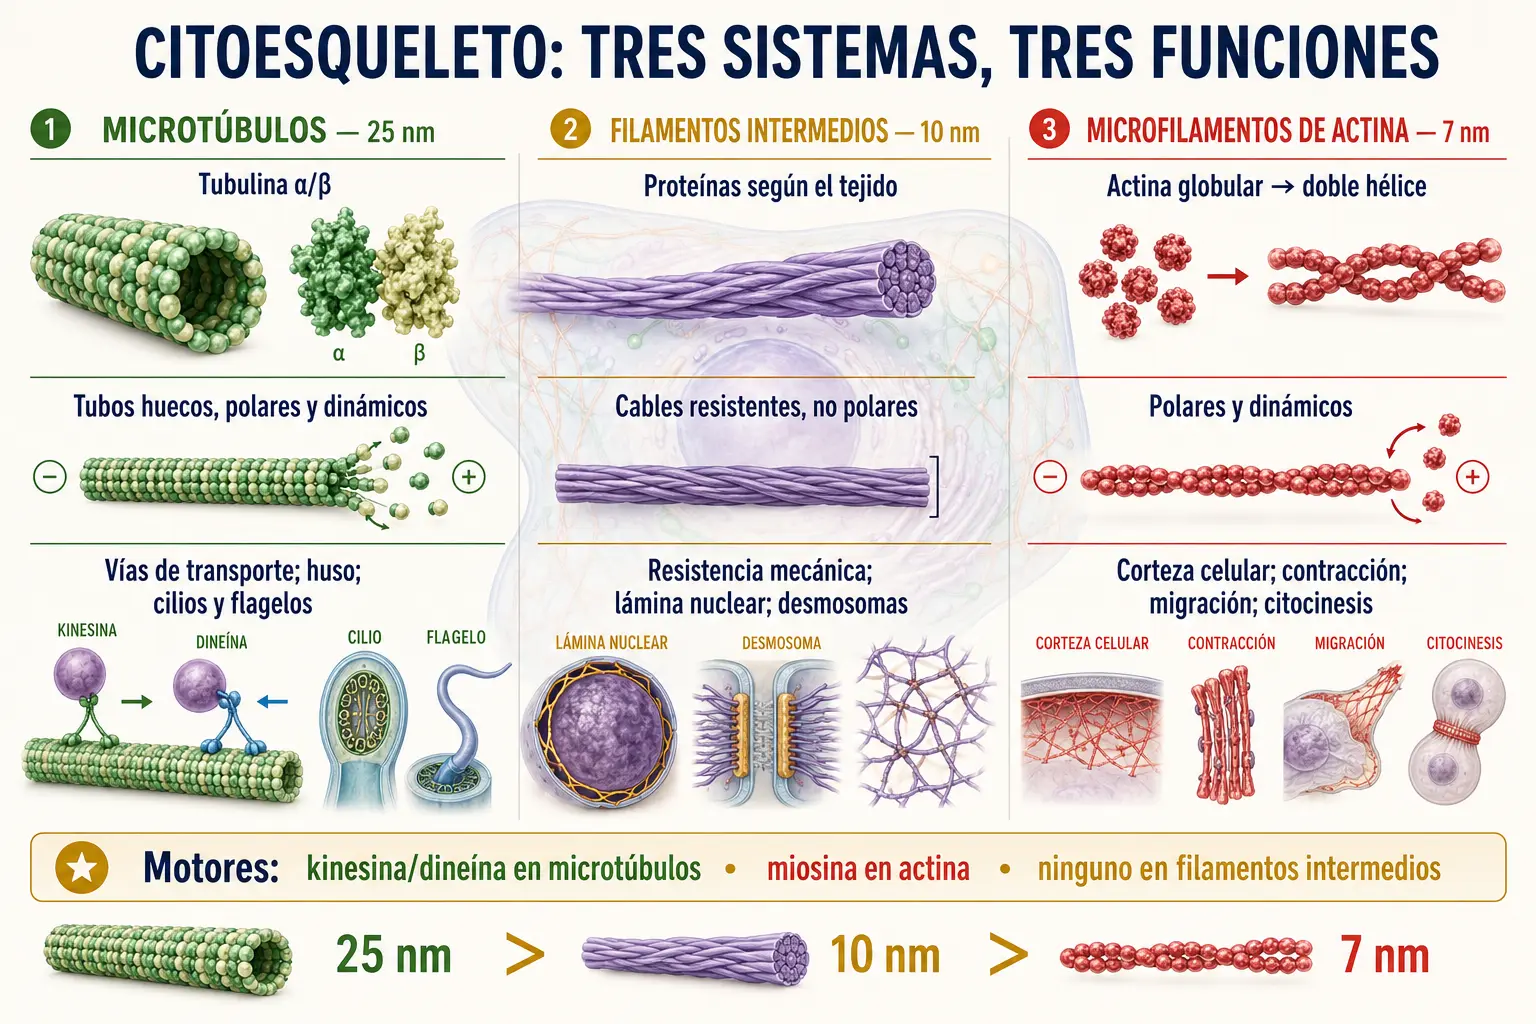
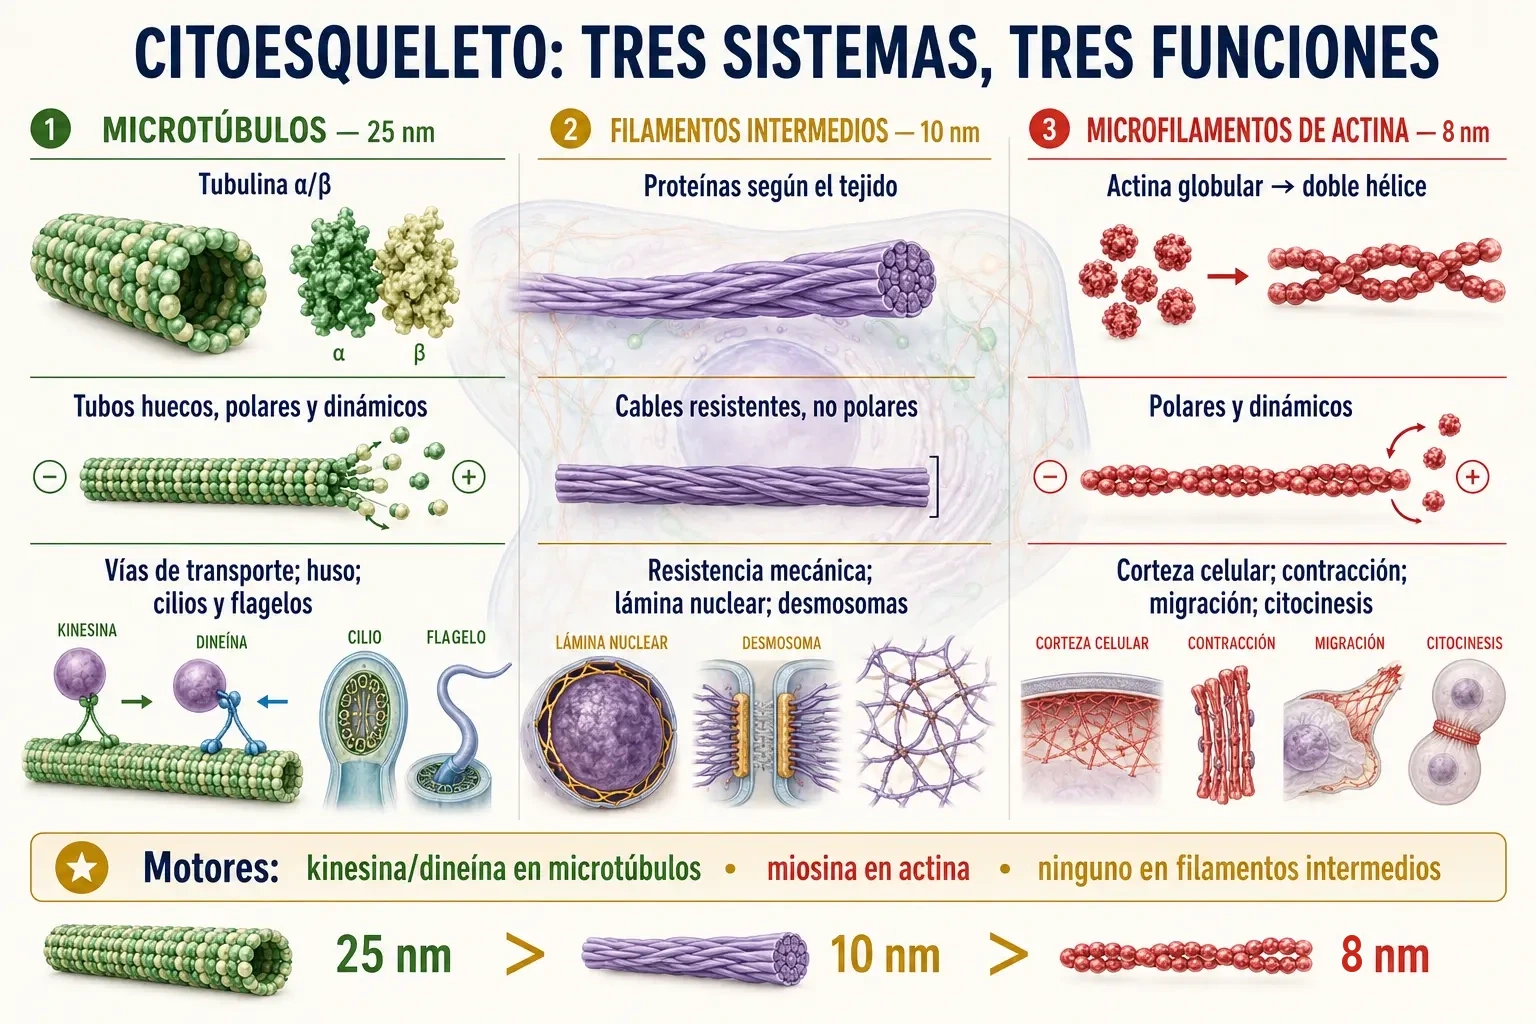
Biología: figura do citoesqueleto (8 nm, conforme slide da Unidad V), alt coerente e registro corrigido (20 aminoácidos × 9 essenciais)
Claude-Session: https://claude.ai/code/session_01RqPJR6WPBhuhwUpV78sACw

diff --git a/Repasso-Med-Site--main/Atual - Copia/netlify/functions/materias-privadas/biologia.html b/Repasso-Med-Site--main/Atual - Copia/netlify/functions/materias-privadas/biologia.html
@@ -1580,7 +1580,7 @@
   </div><figure class="rmc-fig bio-fig"><div class="rmc-zoom"><img class="rmc-photo" src="/assets/img/bio/bio_b09_01_citosol_inclusiones.webp" alt="Funciones del citosol —metabolismo con glucólisis y síntesis, transporte de metabolitos y señales, reserva de iones y pequeñas moléculas y soporte del citoesqueleto y los ribosomas libres— y los tipos de inclusiones: glucógeno, gotas lipídicas, pigmentos como melanina, lipofuscina y hemosiderina, y cristales." loading="lazy" decoding="async" width="1536" height="1024"></div><p class="rmc-hint">🔍 tocá la figura y ampliá con dos dedos para leer los rótulos</p><figcaption><b>Citosol y citoplasma no son sinónimos.</b> El recuadro del centro es la definición clave: <b>citoplasma = citosol + orgánulos + inclusiones</b>. El <b>citosol</b> es sólo el líquido, la fase acuosa donde ocurre la glucólisis y flotan los ribosomas libres.</figcaption></figure><div class="rmc-note"><p>Y la banda del pie marca la otra distinción: las <b>inclusiones no son orgánulos</b> — no tienen membrana propia (el glucógeno), o sólo una <b>monocapa</b> (las gotas lipídicas), no cumplen una función metabólica delimitada y son <b>transitorias</b>: aparecen y desaparecen según el estado de la célula.</p>
     <p>Un orgánulo es permanente; una inclusión es un depósito.</p></div>
 
-  <figure class="rmc-fig bio-fig"><div class="rmc-zoom"><img class="rmc-photo" src="/assets/img/bio/bio_b09_02_citoesqueleto_comparativo.webp" alt="Los tres componentes del citoesqueleto comparados: microtúbulos de tubulina de unos 25 nanómetros, filamentos intermedios de queratina y otras proteínas de unos 10 nanómetros, y microfilamentos de actina de unos 7 a 8 nanómetros, con su composición, estructura y funciones." loading="lazy" decoding="async" width="1536" height="1024"></div><p class="rmc-hint">🔍 tocá la figura y ampliá con dos dedos para leer los rótulos</p><figcaption><b>Se ordenan por grosor, y el grosor predice la función.</b> Aprendelos en la escalera que muestra la figura: <b>microtúbulos ~25 nm</b> (los más gruesos), <b>filamentos intermedios ~10 nm</b>, <b>microfilamentos ~8 nm</b> (los más finos).</figcaption></figure><div class="rmc-note"><p>Y asociá cada uno a su trabajo, que se deduce del calibre. Los <b>microtúbulos</b>, gruesos y polares, son los <b>rieles</b>: transporte de vesículas, huso mitótico, cilios y flagelos.</p>
+  <figure class="rmc-fig bio-fig"><div class="rmc-zoom"><img class="rmc-photo" src="/assets/img/bio/bio_b09_02_citoesqueleto_comparativo.webp" alt="Los tres componentes del citoesqueleto comparados: microtúbulos de tubulina de unos 25 nanómetros, filamentos intermedios de queratina y otras proteínas de unos 10 nanómetros, y microfilamentos de actina de unos 8 nanómetros, con su composición, estructura y funciones." loading="lazy" decoding="async" width="1536" height="1024"></div><p class="rmc-hint">🔍 tocá la figura y ampliá con dos dedos para leer los rótulos</p><figcaption><b>Se ordenan por grosor, y el grosor predice la función.</b> Aprendelos en la escalera que muestra la figura: <b>microtúbulos ~25 nm</b> (los más gruesos), <b>filamentos intermedios ~10 nm</b>, <b>microfilamentos ~8 nm</b> (los más finos).</figcaption></figure><div class="rmc-note"><p>Y asociá cada uno a su trabajo, que se deduce del calibre. Los <b>microtúbulos</b>, gruesos y polares, son los <b>rieles</b>: transporte de vesículas, huso mitótico, cilios y flagelos.</p>
     <p>Los <b>filamentos intermedios</b> son los <b>cables de acero</b>: pura resistencia mecánica, sin polaridad y sin motores — son los únicos que no transportan nada.</p>
     <p>Los <b>microfilamentos</b> de actina hacen todo lo que implica <b>cambiar de forma</b>: contracción, migración, microvellosidades y el anillo de la citocinesis.</p></div><figure class="rmc-fig bio-fig"><div class="rmc-zoom"><img class="rmc-photo" src="/assets/img/bio/bio_b09_03_microtubulos_actina_motores.webp" alt="La polaridad del microtúbulo con extremo menos cerca del centrosoma y extremo más hacia la periferia, la kinesina que transporta hacia el extremo más y la dineína hacia el extremo menos, la estructura del cilio con axonema 9+2 y cuerpo basal de 9 tripletes, y las funciones de la actina en contracción, protrusión y citocinesis." loading="lazy" decoding="async" width="1536" height="1024"></div><p class="rmc-hint">🔍 tocá la figura y ampliá con dos dedos para leer los rótulos</p><figcaption><b>La polaridad decide para dónde va cada motor.</b> El panel A tiene el dato central: el microtúbulo <b>no es simétrico</b>. Su <b>extremo −</b> queda anclado en el centrosoma y el <b>+</b> apunta a la periferia.</figcaption></figure><div class="rmc-note"><p>Sobre ese riel corren dos motores en sentidos opuestos: la <b>kinesina hacia el +</b> (del centro hacia afuera) y la <b>dineína hacia el −</b> (de vuelta al centro).</p>
     <p>Si te acordás de la dirección, te acordás del nombre. El panel B trae los dos números que se confunden: el <b>axonema</b> del cilio es <b>9+2</b> (nueve dobletes más un par central).</p>

diff --git a/coordination/source-packs/biologia-figuras-05-09-v1.md b/coordination/source-packs/biologia-figuras-05-09-v1.md
@@ -1,17 +1,19 @@
 # Biología — correção das duas figuras registradas na #550 (2026-10-23)
 
-**Nível:** correção das duas figuras e das duas notas de texto que as apontavam. Nenhuma imagem apagada; mesmos caminhos de arquivo; `alt`, ids, perguntas, gabaritos e cartões intactos.
+**Nível:** correção das três figuras e das duas notas de texto que as apontavam. Nenhuma imagem apagada; mesmos caminhos de arquivo; `alt`, ids, perguntas, gabaritos e cartões intactos.
 
 ## Fonte → achado → decisão → destino
 | Fonte | Achado | Decisão | Destino |
 |---|---|---|---|
 | De Robertis, *Biología Celular y Molecular* 16.ª ed. (Drive, cap. 2): «o grupamento NH₂ de um aminoácido se combina com o COOH do seguinte, com perda de água»; a molécula tem NH₂ numa extremidade (aminoterminal) e COOH na outra (carboxilaterminal); pentapeptídeo desenhado «da extremidade aminoterminal à carboxilaterminal» | Na figura, o dipeptídeo tinha o N aberto na ponta esquerda (N-terminal) com a ordem N–C(=O) lida da esquerda para a direita: contradizia a seta N→C e o rótulo «—CO—NH—» | Painel do dipeptídeo **redesenhado**: H₂N–Cα(R₁)–**CO–NH**–Cα(R₂)–COOH, caixa destacando o enlace, setas N-terminal (esquerda) e C-terminal (direita). Painéis do aminoácidos esenciales e da condensação ficam como estavam | `assets/img/bio/bio_b05_03_esenciales_enlace_peptidico.webp`; nota do bloco 05 reescrita |
-| Unidad II 2022 (cátedra): «cuando dos aminoácidos se unen lo hacen por medio del ENLACE PEPTÍDICO»; 20 aminoácidos essenciais fornecidos pela dieta | Coerente com a figura corrigida; a cátedra não detalha a orientação N→C, que vem do livro | Nada mais a alterar | — |
+| Unidad II 2022 (cátedra): «cuando dos aminoácidos se unen lo hacen por medio del ENLACE PEPTÍDICO»; as proteínas se formam pela combinação de **20 aminoácidos**, dos quais os **essenciais** (são **9**, os listados na figura) são os que as células humanas não produzem e vêm da dieta | Coerente com a figura. Atenção à distinção: **20 = aminoácidos proteicos; 9 = essenciais**. A figura só lista os 9 essenciais (histidina, isoleucina, leucina, lisina, metionina, fenilalanina, treonina, triptófano, valina) e não afirma que sejam os 20. A orientação N→C vem do livro, não da cátedra | Nada mais a alterar | — |
 | Léxico (ortografia) | O rodapé da figura de citosol/inclusões dizia «TRANSTORIAS» | Retocado só o texto do rodapé para «TRANSITORIAS» (fundo dourado reconstruído, mesma posição); restante da imagem intocado | `assets/img/bio/bio_b09_01_citosol_inclusiones.webp`; nota do bloco 09 removida |
 | Unidad IV (cátedra) e livro | Conteúdo da figura (funções do citosol, inclusões, citosol ≠ citoplasma) confere | Sem outra alteração | — |
+| Unidad V (slides 2024, Drive): «MICROFILAMENTOS O FILAMENTOS DE ACTINA. **8 nm de diámetro**»; microtúbulos 25 nm; filamentos intermedios 10 nm (UNIDAD V.pdf confere em 25 e 10 nm) | A figura do citoesqueleto escrevia «7 nm» no cabeçalho dos microfilamentos e na comparação de calibres; o `alt` dizia «7 a 8 nanómetros» | Retocados só os dois dígitos «7» → «8» (mesma cor e posição); `alt` → «unos 8 nanómetros»; imagem preservada | `assets/img/bio/bio_b09_02_citoesqueleto_comparativo.webp`; `alt` em `biologia.html` |
 
 ## Contagens
 Perguntas, cartões, imagens (39), ids e gabaritos iguais. Grifos: consulta somente leitura — nenhum em `biologia` nos trechos alterados.
 
-## Pendência encontrada (não alterada aqui)
-`bio_b09_02_citoesqueleto_comparativo.webp` e o seu `alt` ainda dizem «7 a 8 nm» para o microfilamento; o slide da Unidad V diz 8 nm (a legenda no texto já foi corrigida na #550). Requer nova correção da própria imagem.
+
+## Conferência visual das três figuras
+`bio_b05_03` (dipeptídeo): N-terminal à esquerda, H₂N–Cα(R₁)–CO–NH–Cα(R₂)–COOH, setas e rótulos legíveis. `bio_b09_01` (citosol/inclusões): rodapé «TRANSITORIAS», sem sobreposição ao ícone. `bio_b09_02` (citoesqueleto): «25 nm > 10 nm > 8 nm», cabeçalhos coerentes com o texto da página e o slide. Nenhuma imagem apagada.
